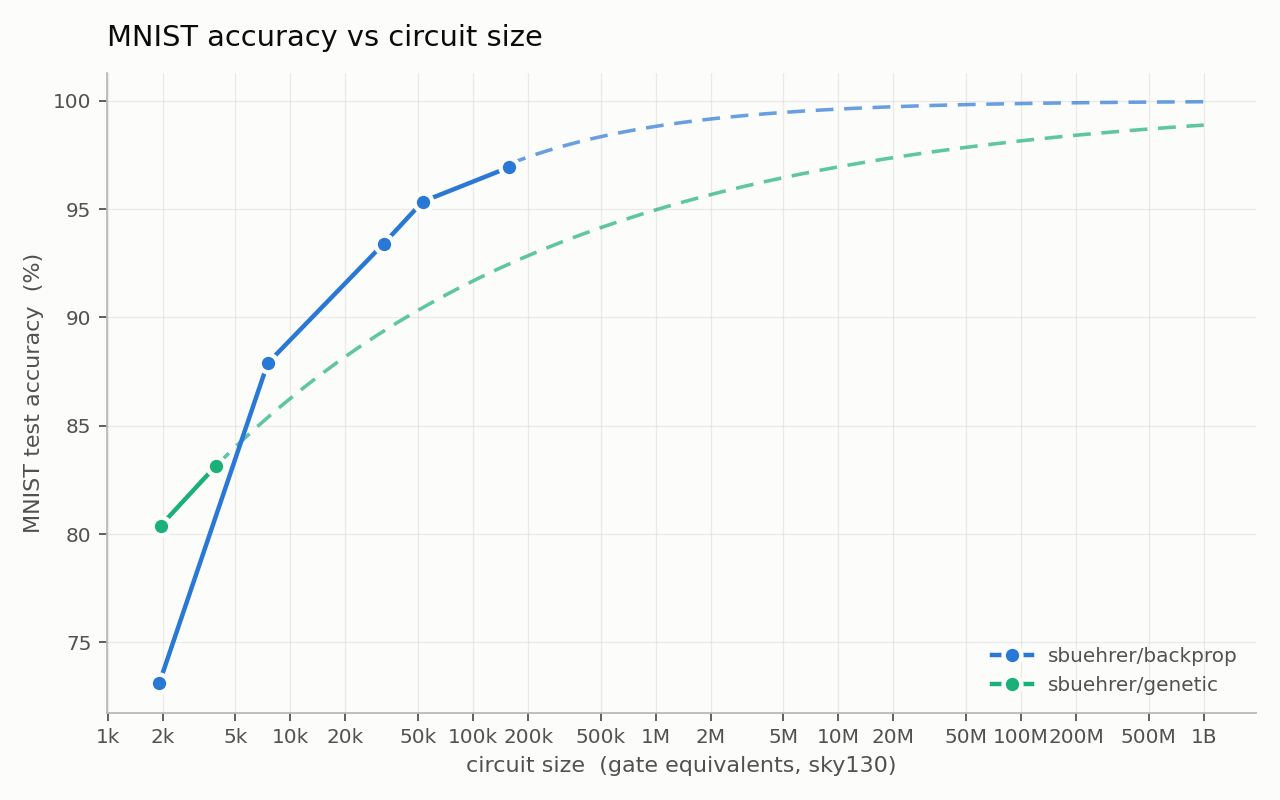
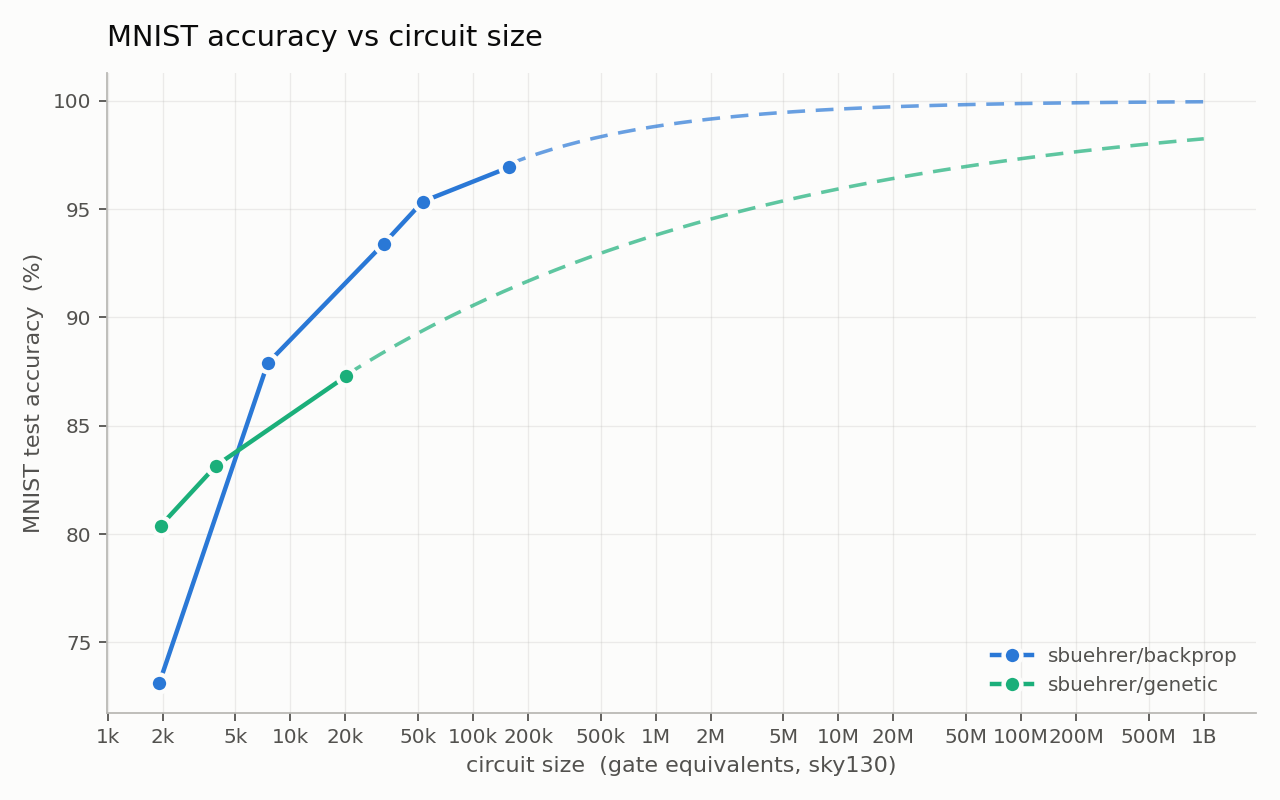
Regenerate plots: genetic l added (3 genetic points, 5 backprop)

diff --git a/README.md b/README.md
@@ -36,6 +36,7 @@ Every point trains until it stops improving on the validation set, not to a fixe
 | * | `sbuehrer/backprop` | l | 52,973 | 238 | **95.35%** | 0.152 |
 | * | `sbuehrer/backprop` | m | 32,425 | 237 | **93.41%** | 0.213 |
 | * | `sbuehrer/backprop` | s | 7,514 | 188 | **87.89%** | 0.390 |
+|  | `sbuehrer/genetic` | l | 20,114 | 206 | **87.28%** | 0.422 |
 | * | `sbuehrer/genetic` | s | 3,920 | 156 | **83.16%** | 0.558 |
 | * | `sbuehrer/genetic` | xs | 1,945 | 129 | **80.38%** | 0.627 |
 | * | `sbuehrer/backprop` | xs | 1,913 | 130 | **73.10%** | 0.782 |

diff --git a/results/leaderboard.md b/results/leaderboard.md
@@ -4,6 +4,7 @@
 | * | `sbuehrer/backprop` | l | 52,973 | 238 | **95.35%** | 0.152 |
 | * | `sbuehrer/backprop` | m | 32,425 | 237 | **93.41%** | 0.213 |
 | * | `sbuehrer/backprop` | s | 7,514 | 188 | **87.89%** | 0.390 |
+|  | `sbuehrer/genetic` | l | 20,114 | 206 | **87.28%** | 0.422 |
 | * | `sbuehrer/genetic` | s | 3,920 | 156 | **83.16%** | 0.558 |
 | * | `sbuehrer/genetic` | xs | 1,945 | 129 | **80.38%** | 0.627 |
 | * | `sbuehrer/backprop` | xs | 1,913 | 130 | **73.10%** | 0.782 |